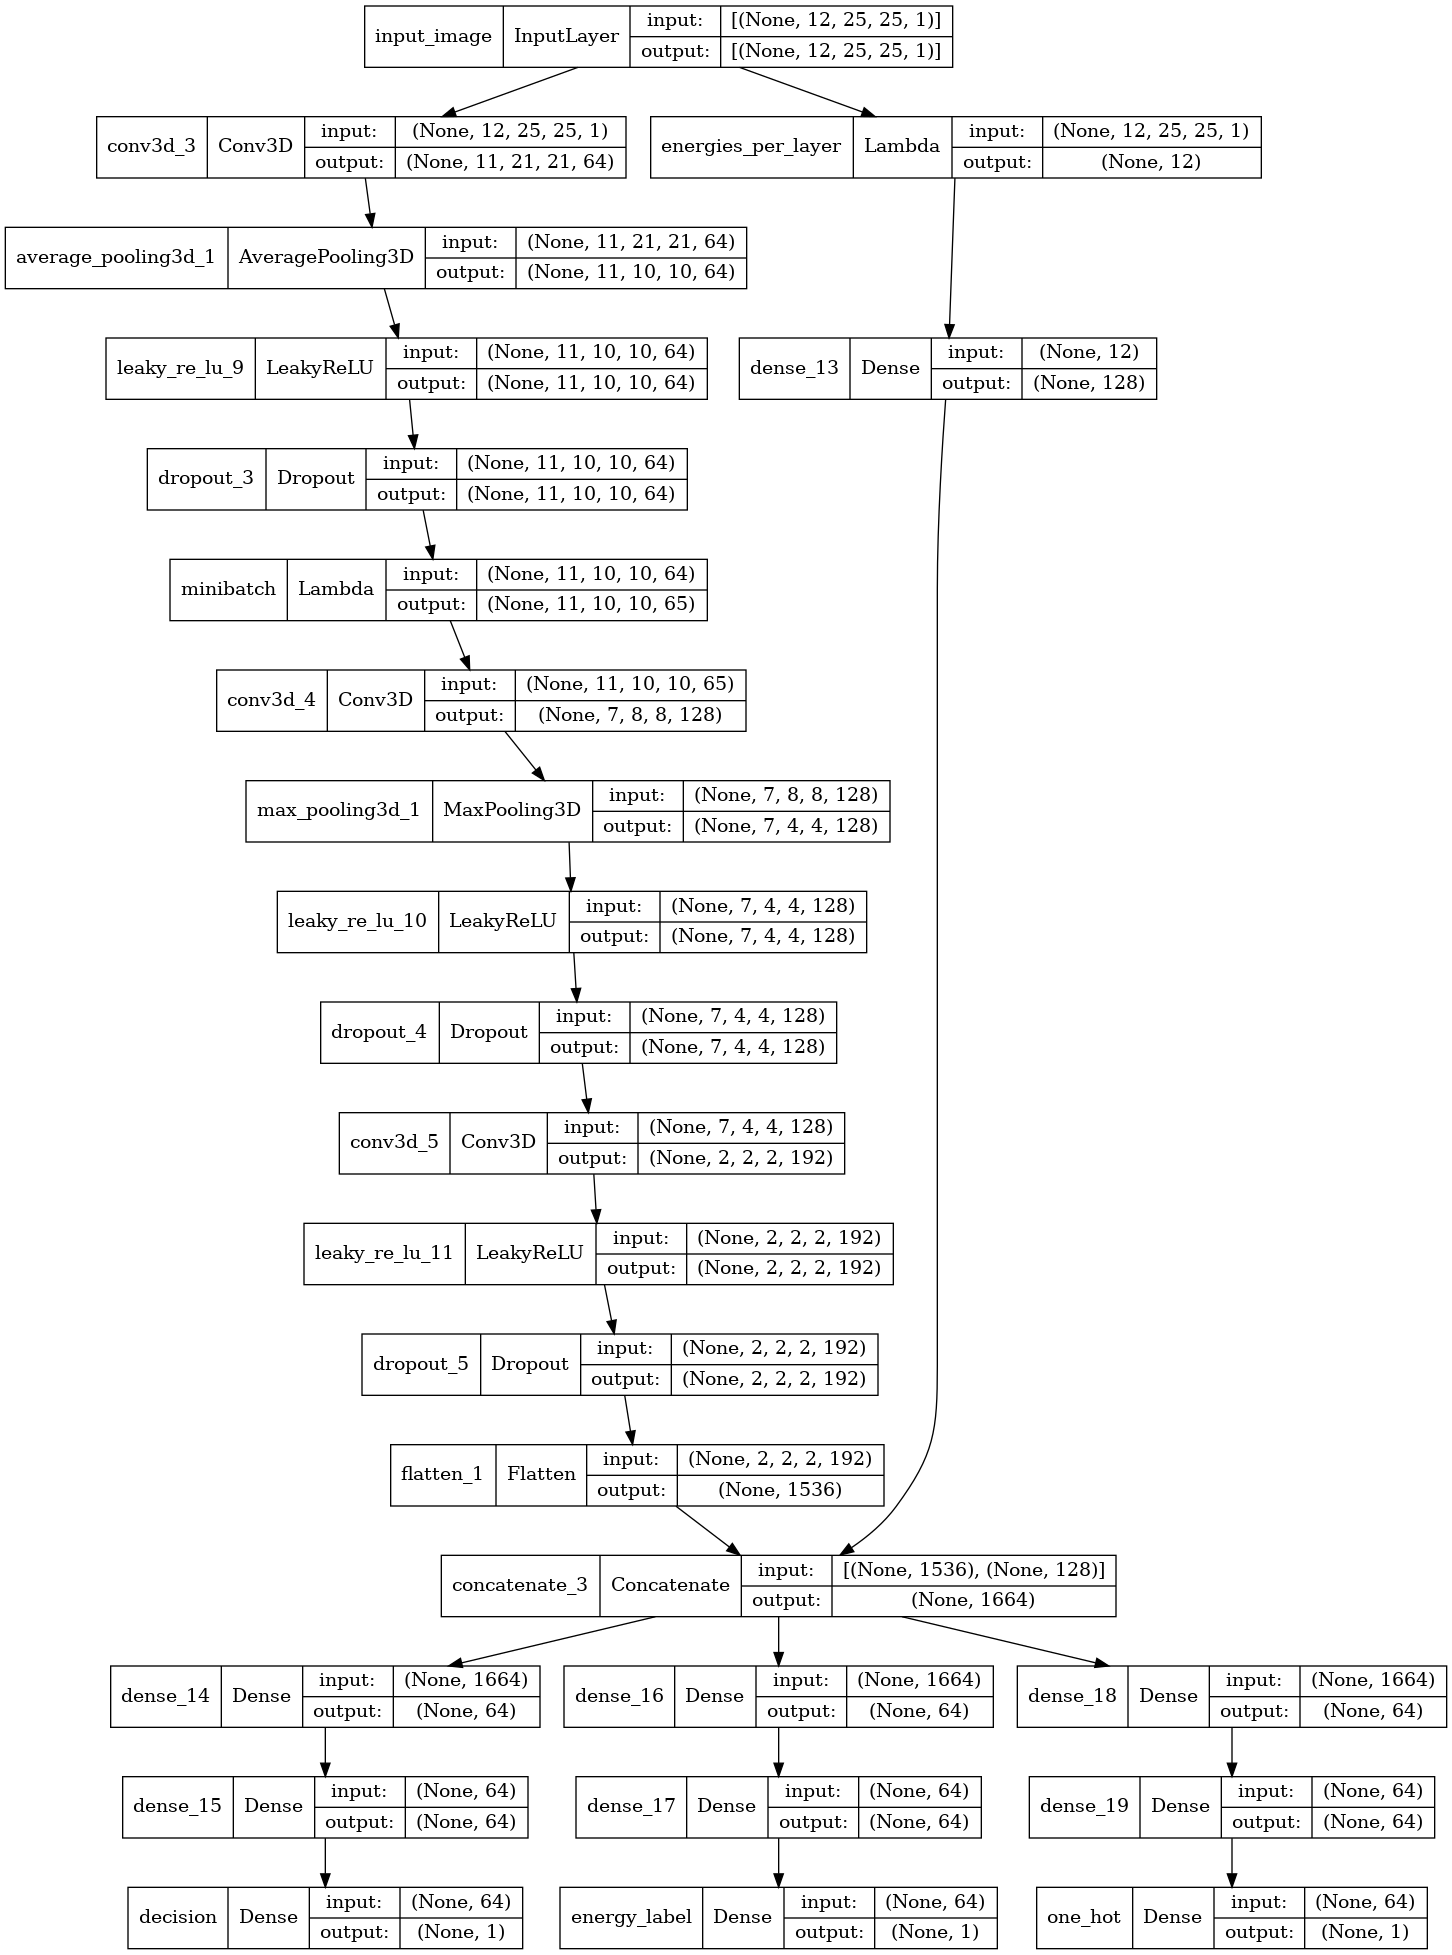
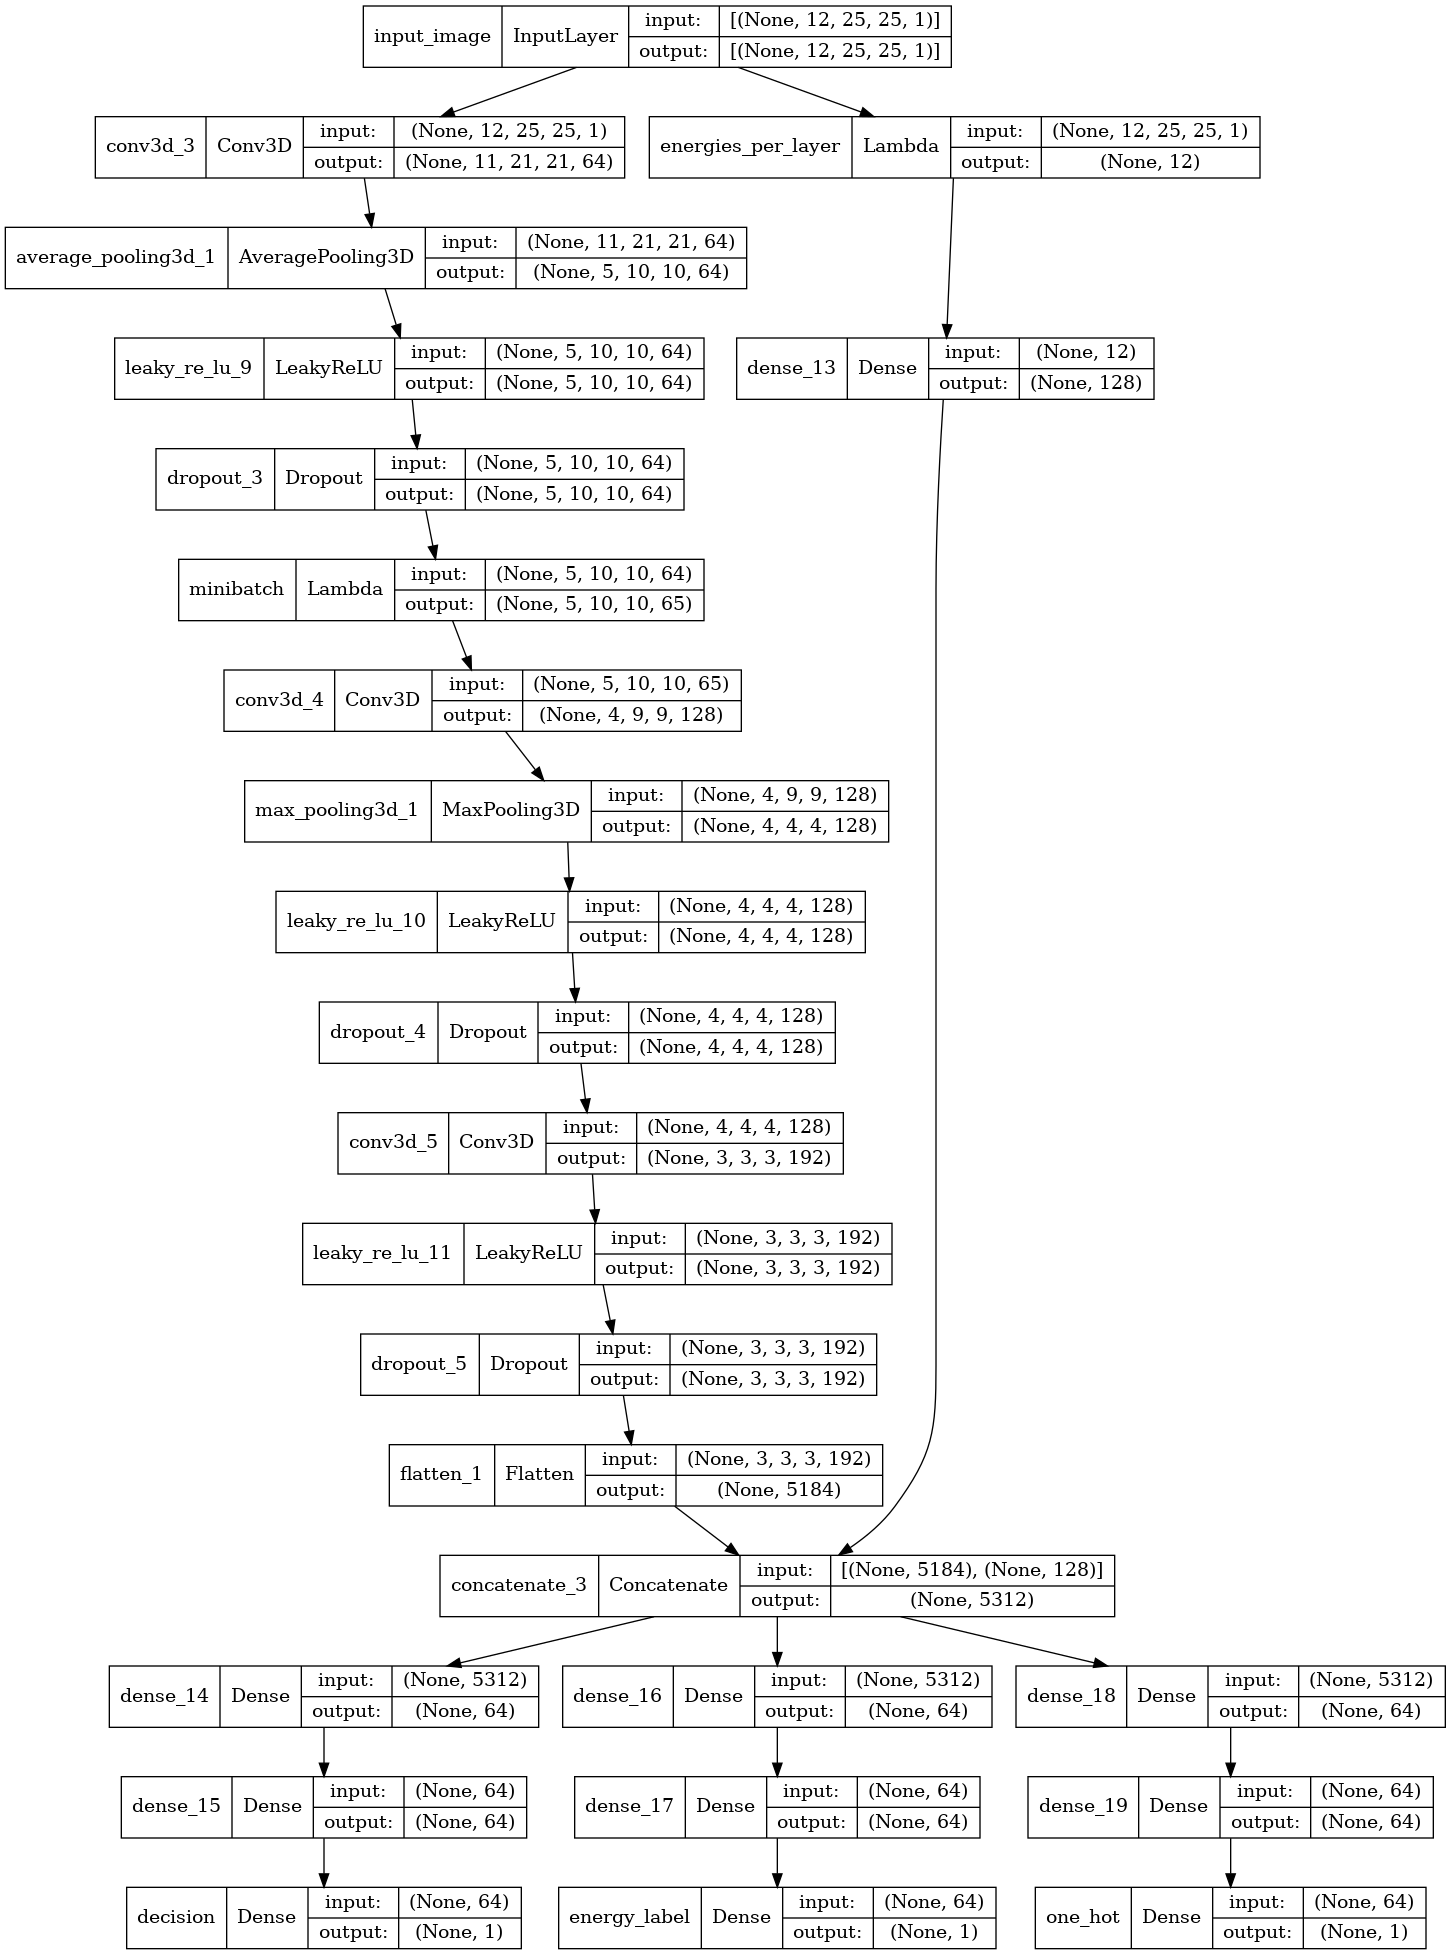
previous commit was good in identifying primary particle. trying merging with the best config in producing shape

diff --git a/EM_shower_simulator/make_models_D.py b/EM_shower_simulator/make_models_D.py
@@ -250,20 +250,20 @@ def make_discriminator_model():
 
     discr = Conv3D(N_FILTER, KERNEL, use_bias=False)(in_image)#in_image
     logger.info(discr.get_shape())
-    discr = AveragePooling3D(pool_size = (1,2,2), padding ="valid")(discr)
+    discr = AveragePooling3D(pool_size = (2,2,2), padding ="valid")(discr)
     discr = LeakyReLU()(discr)
     discr = Dropout(0.3)(discr)
 
     minibatch = Lambda(minibatch_stddev_layer, name="minibatch")(discr)
     logger.info(f"Minibatch shape: {discr.get_shape()}")
 
-    discr = Conv3D(2*N_FILTER, (5,3,3) , padding="valid", use_bias=False)(minibatch)
+    discr = Conv3D(2*N_FILTER, (2,2,2) , padding="valid", use_bias=False)(minibatch)
     discr = MaxPooling3D(pool_size = (1,2,2) , padding ="valid")(discr)
     logger.info(discr.get_shape())
     discr = LeakyReLU()(discr)
     discr = Dropout(0.3)(discr)
 
-    discr = Conv3D(3*N_FILTER, (6,3,3), padding="valid", use_bias=False)(discr)
+    discr = Conv3D(3*N_FILTER, (2,2,2), padding="valid", use_bias=False)(discr)
     #discr = MaxPooling3D(pool_size = (2,2,2) , padding ="same")(discr)
     discr = LeakyReLU()(discr)
     discr = Dropout(0.3)(discr)
